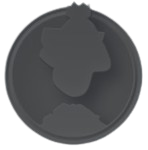
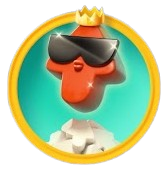
Adds images for new achievements

diff --git a/_posts/2024-04-07-reddit-mobile-achievements-guide.md b/_posts/2024-04-07-reddit-mobile-achievements-guide.md
@@ -6,7 +6,7 @@ image: /assets/images/2024/reddit-achievements.png
 tags:
   - Reddit
   - Achievements
-last_modified: 2024-11-01
+last_modified: 2024-11-02
 ---
 
 In April 2024, Reddit added 18 achievements to the mobile app, grouped into 3 categories (and added 30+ more & outfits later). Here's all the details, and how to unlock all 57 achievements!
